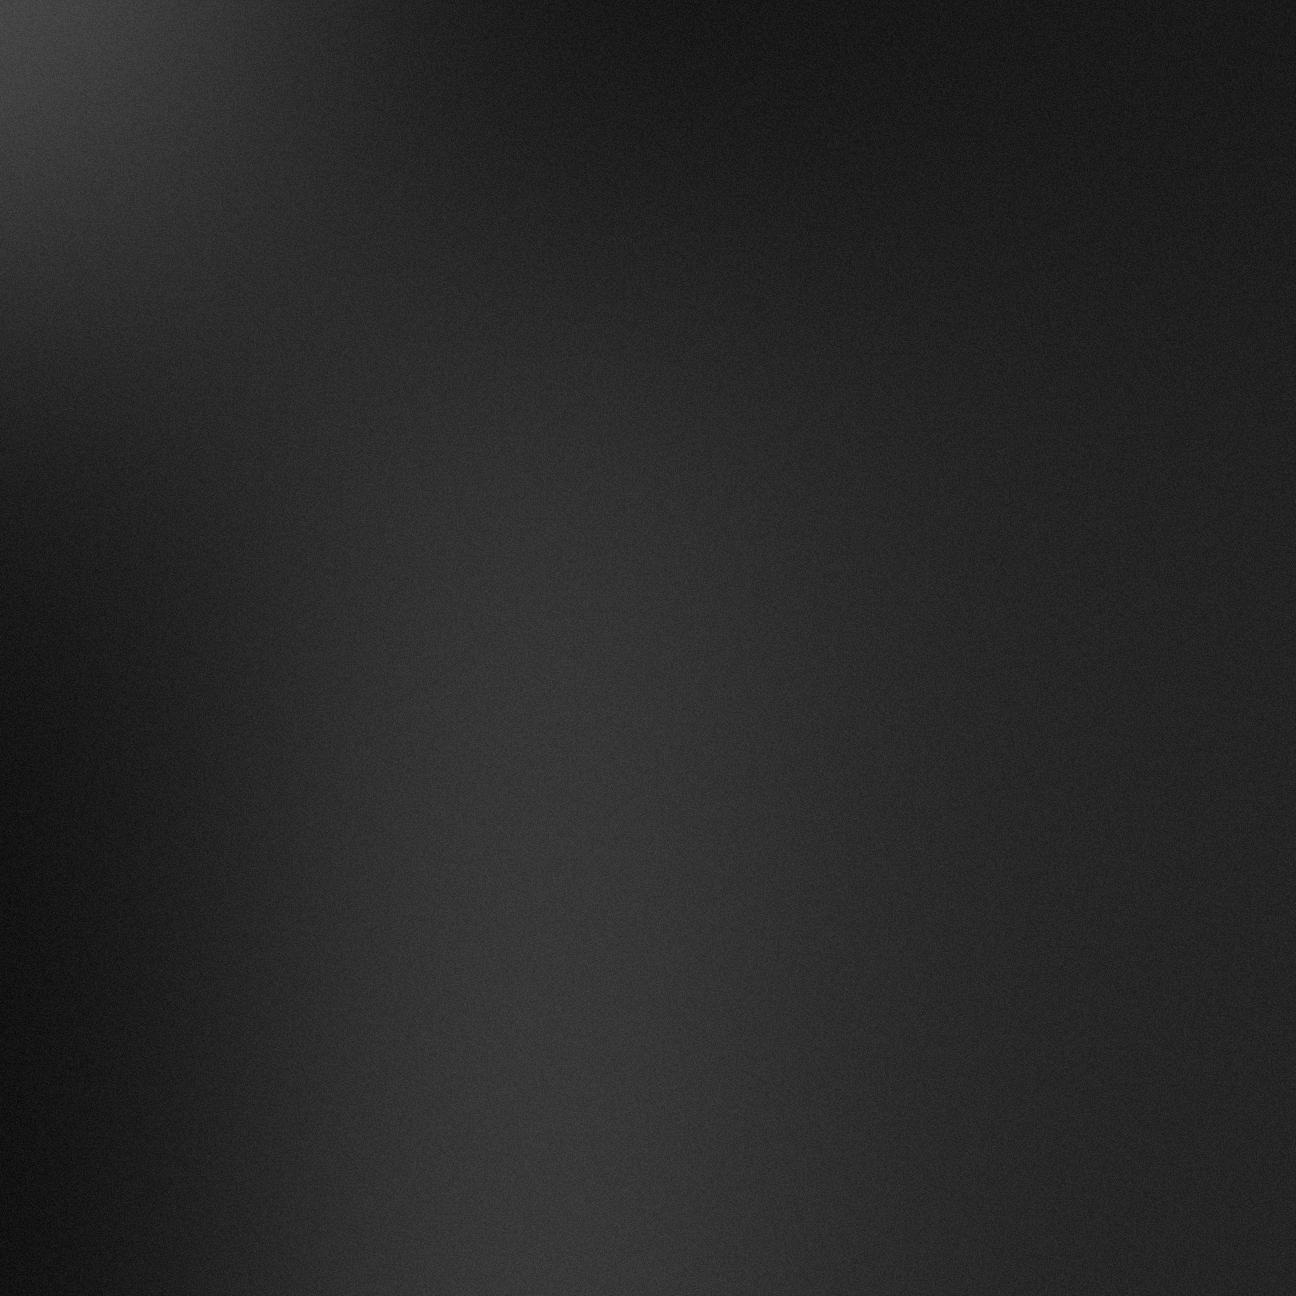
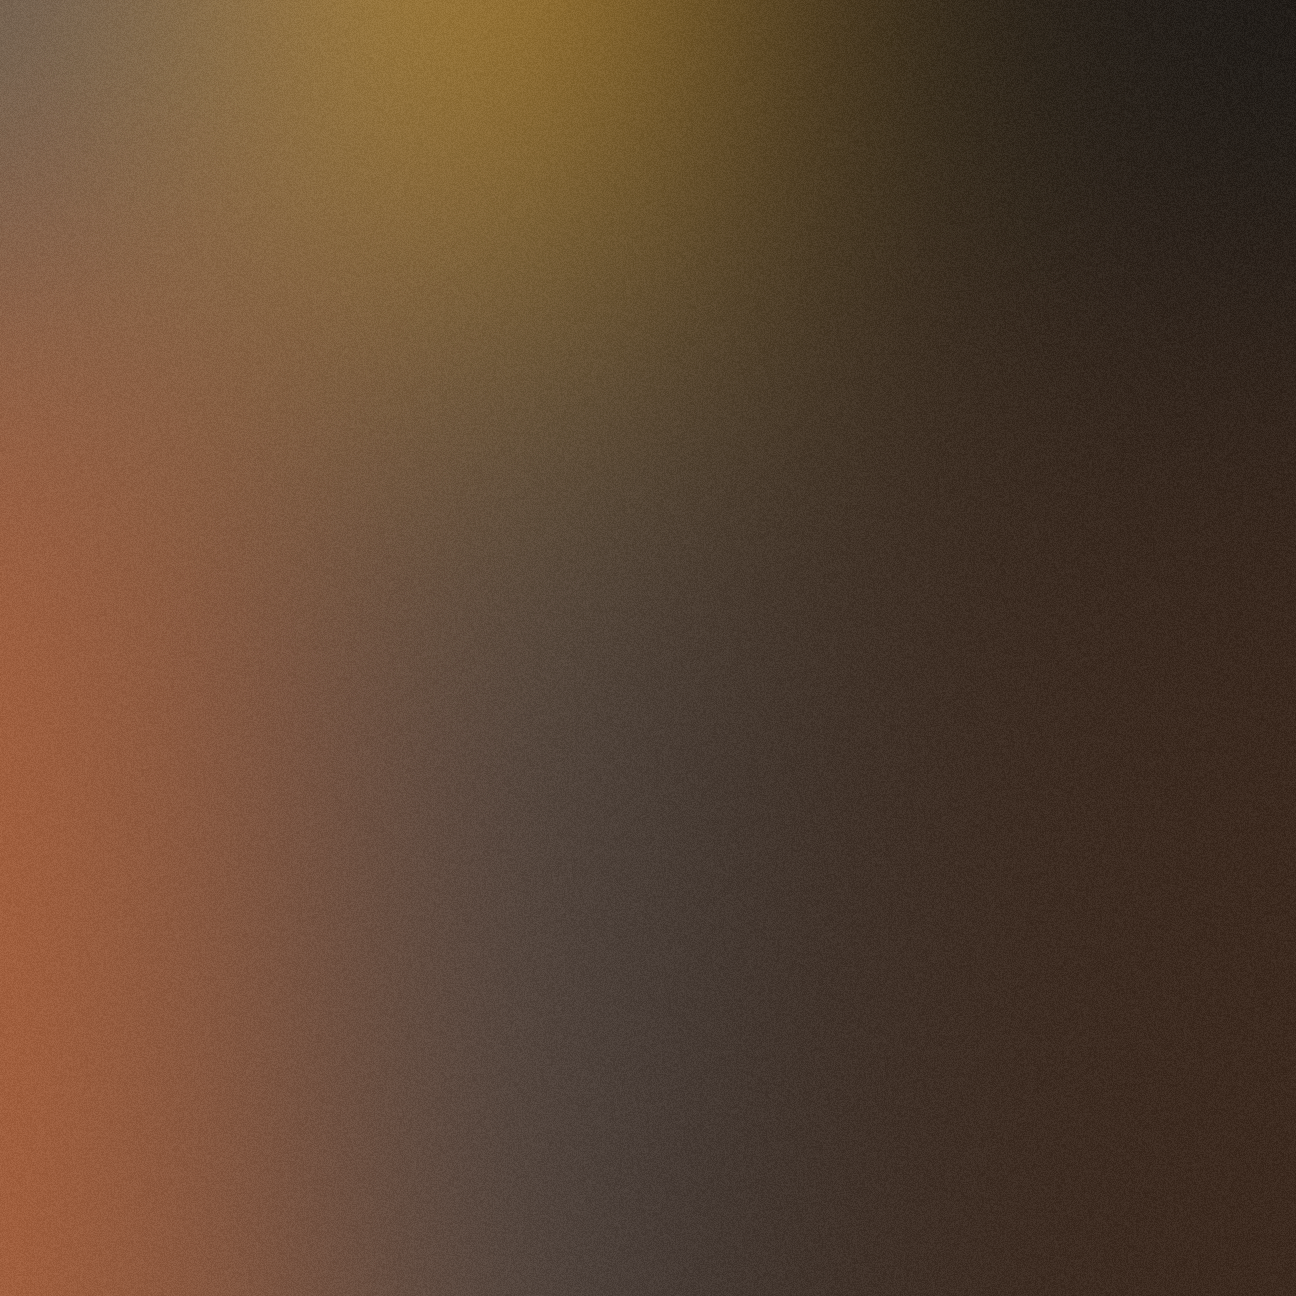
Changes

diff --git a/src/index.css b/src/index.css
@@ -15,8 +15,8 @@
     --popover: 0 0% 7%;
     --popover-foreground: 0 0% 95%;
 
-    --primary: 78 68% 62%;
-    --primary-foreground: 80 100% 8%;
+    --primary: 25 95% 58%;
+    --primary-foreground: 0 0% 100%;
 
     --secondary: 0 0% 12.5%;
     --secondary-foreground: 0 0% 55%;
@@ -24,20 +24,20 @@
     --muted: 0 0% 14%;
     --muted-foreground: 0 0% 36%;
 
-    --accent: 78 68% 62%;
-    --accent-foreground: 80 100% 8%;
+    --accent: 25 95% 58%;
+    --accent-foreground: 0 0% 100%;
 
     --destructive: 0 84% 60%;
     --destructive-foreground: 0 0% 100%;
 
     --border: 0 0% 100% / 0.04;
     --input: 0 0% 12%;
-    --ring: 78 68% 62%;
+    --ring: 25 95% 58%;
 
     --radius: 1rem;
 
     /* DayLens custom tokens */
-    --lime: 78 68% 62%;
+    --lime: 25 95% 58%;
     --glass-bg: rgba(255, 255, 255, 0.03);
     --glass-border: rgba(255, 255, 255, 0.04);
 
@@ -45,16 +45,16 @@
     --header-bg: 0 0% 5.5%;
 
     --color-red: 0 84% 60%;
-    --color-lime: 78 68% 62%;
+    --color-lime: 25 95% 58%;
 
     --sidebar-background: 0 0% 5.5%;
     --sidebar-foreground: 0 0% 40%;
-    --sidebar-primary: 78 68% 62%;
-    --sidebar-primary-foreground: 80 100% 8%;
+    --sidebar-primary: 25 95% 58%;
+    --sidebar-primary-foreground: 0 0% 100%;
     --sidebar-accent: 0 0% 10%;
     --sidebar-accent-foreground: 0 0% 50%;
     --sidebar-border: 0 0% 100% / 0.04;
-    --sidebar-ring: 78 68% 62%;
+    --sidebar-ring: 25 95% 58%;
   }
 }
 
@@ -268,9 +268,9 @@
     width: 15px;
     height: 15px;
     border-radius: 50%;
-    background: hsl(78, 68%, 62%);
+    background: hsl(25, 95%, 58%);
     cursor: pointer;
-    box-shadow: 0 0 8px rgba(200, 232, 120, 0.4);
+    box-shadow: 0 0 8px rgba(255, 127, 50, 0.4);
   }
 
   input[type=time] {
@@ -322,8 +322,8 @@
 .spin-slow { animation: spin-slow 0.9s linear infinite; }
 
 @keyframes coach-pulse {
-  0%, 100% { box-shadow: 0 0 8px 1px rgba(200,232,120,0.08), 0 0 20px 3px rgba(200,232,120,0.04); }
-  50% { box-shadow: 0 0 12px 3px rgba(200,232,120,0.14), 0 0 30px 6px rgba(200,232,120,0.06); }
+  0%, 100% { box-shadow: 0 0 8px 1px rgba(255,127,50,0.08), 0 0 20px 3px rgba(255,127,50,0.04); }
+  50% { box-shadow: 0 0 12px 3px rgba(255,127,50,0.14), 0 0 30px 6px rgba(255,127,50,0.06); }
 }
 .coach-glow-bar { animation: coach-pulse 3s ease-in-out infinite; }
 
